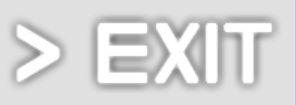
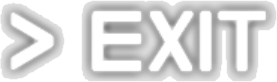
버튼 추가

diff --git a/2DProject/Johnburr/title_state.py b/2DProject/Johnburr/title_state.py
@@ -4,14 +4,23 @@ import main_state
 
 RES_DIR = './res'
 def enter():
-    global image
+    global image, exit_image, exit_2_image, start_image, start_2_image
     image = load_image(RES_DIR + '/title.png')
+    exit_image = load_image(RES_DIR + '/exit.png')
+    exit_2_image = load_image(RES_DIR + '/exit2.png')
+    start_image = load_image(RES_DIR + '/start.png')
+    start_2_image = load_image(RES_DIR + '/start2.png')
+
 
 
     global bg_music
     bg_music = load_music('res/title_state_sound.mp3')
     bg_music.set_volume(60)
     bg_music.repeat_play()
+
+    global press_1, press_2
+    press_1 = False
+    press_2 = False
 
 
 def update():
@@ -20,6 +29,14 @@ def update():
 
 def draw():
     image.draw(get_canvas_width() // 2,get_canvas_height() // 2,get_canvas_width() ,get_canvas_height())
+    if press_1 == False:
+        start_image.draw(get_canvas_width() // 2, 300)
+    elif press_1 == True:
+        start_2_image.draw(get_canvas_width() // 2, 300)
+    if press_2 == False:
+        exit_image.draw(get_canvas_width() // 2, 200)
+    elif press_2 == True:
+        exit_2_image.draw(get_canvas_width() // 2, 200)
 
 
 def handle_event(e):
@@ -27,12 +44,37 @@ def handle_event(e):
         gfw.quit()
     elif (e.type, e.key) == (SDL_KEYDOWN, SDLK_ESCAPE):
         gfw.quit()
-    elif (e.type, e.key) == (SDL_KEYDOWN, SDLK_SPACE):
-        gfw.push(main_state)
+
+    if handle_mouse(e):
+        return
+
+
+def handle_mouse(e):
+    global press_1, press_2
+    if e.type == SDL_MOUSEMOTION:
+        mx = e.x
+        my = get_canvas_height() - 1 - e.y
+        print("%d"     "%d", mx, my)
+        if mx > get_canvas_width()//2-193 and mx < get_canvas_width()//2+193 and my>250 and my<350:
+            press_1 = True
+        else:
+            press_1 = False
+        if mx > get_canvas_width()//2-193 and mx < get_canvas_width()//2+193 and my>150 and my<250:
+            press_2 = True
+        else:
+            press_2 = False
+    if e.type == SDL_MOUSEBUTTONDOWN:
+        if press_1 == True:
+            gfw.push(main_state)
+        if press_2 == True:
+            gfw.quit()
+
 
 
 def exit():
-    global image
+    global image, bg_music
+    bg_music.stop()
+    del bg_music
     del image
 
 

diff --git a/2DProject/Johnburr/gobj.py b/2DProject/Johnburr/gobj.py
@@ -18,6 +18,8 @@ def point_add(point1, point2):
     x2, y2 = point2
     return x1 + x2, y1 + y2
 
+def mouse_xy(event):
+    return event.x, get_canvas_height() - event.y - 1
 
 def move_obj(obj):
     obj.pos = point_add(obj.pos, obj.delta)
